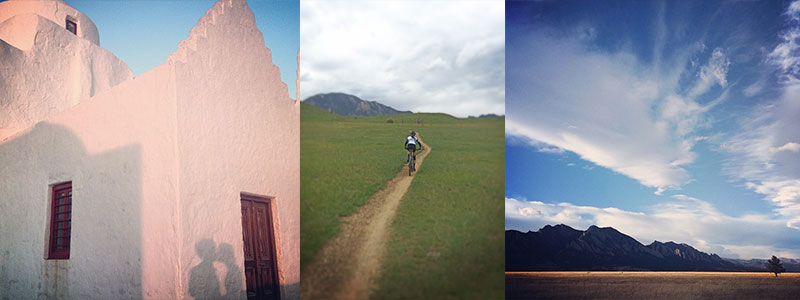
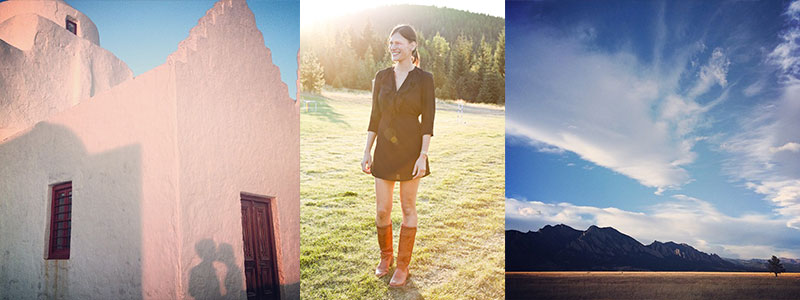
added testimonials to about page, updated copy, changed an image

Changed region(s): [[0.375, 0.0, 0.6562, 1.0], [0.375, 0.03, 0.4062, 0.06]]

diff --git a/app/assets/stylesheets/application.css.scss b/app/assets/stylesheets/application.css.scss
@@ -178,3 +178,23 @@ a:hover {
 	margin: auto;
 	text-align: justify;
 }
+#testimonials {
+	// padding: 10px;
+}
+.column {
+	float: left;
+	width: 50%;
+}
+.column p {
+	padding: 0px 15px 15px;
+	margin: 0px;
+}
+p.author {
+	padding-bottom: 10px;
+}
+.column hr {
+	margin: 10px 15px 20px;
+	border: none;
+	border-bottom: 1px solid #ddd;
+	// width: 25px;
+}

diff --git a/app/controllers/pages_controller.rb b/app/controllers/pages_controller.rb
@@ -22,4 +22,5 @@ class PagesController < ApplicationController
 	def free_wedding_planning_tools
 
 	end
+
 end
